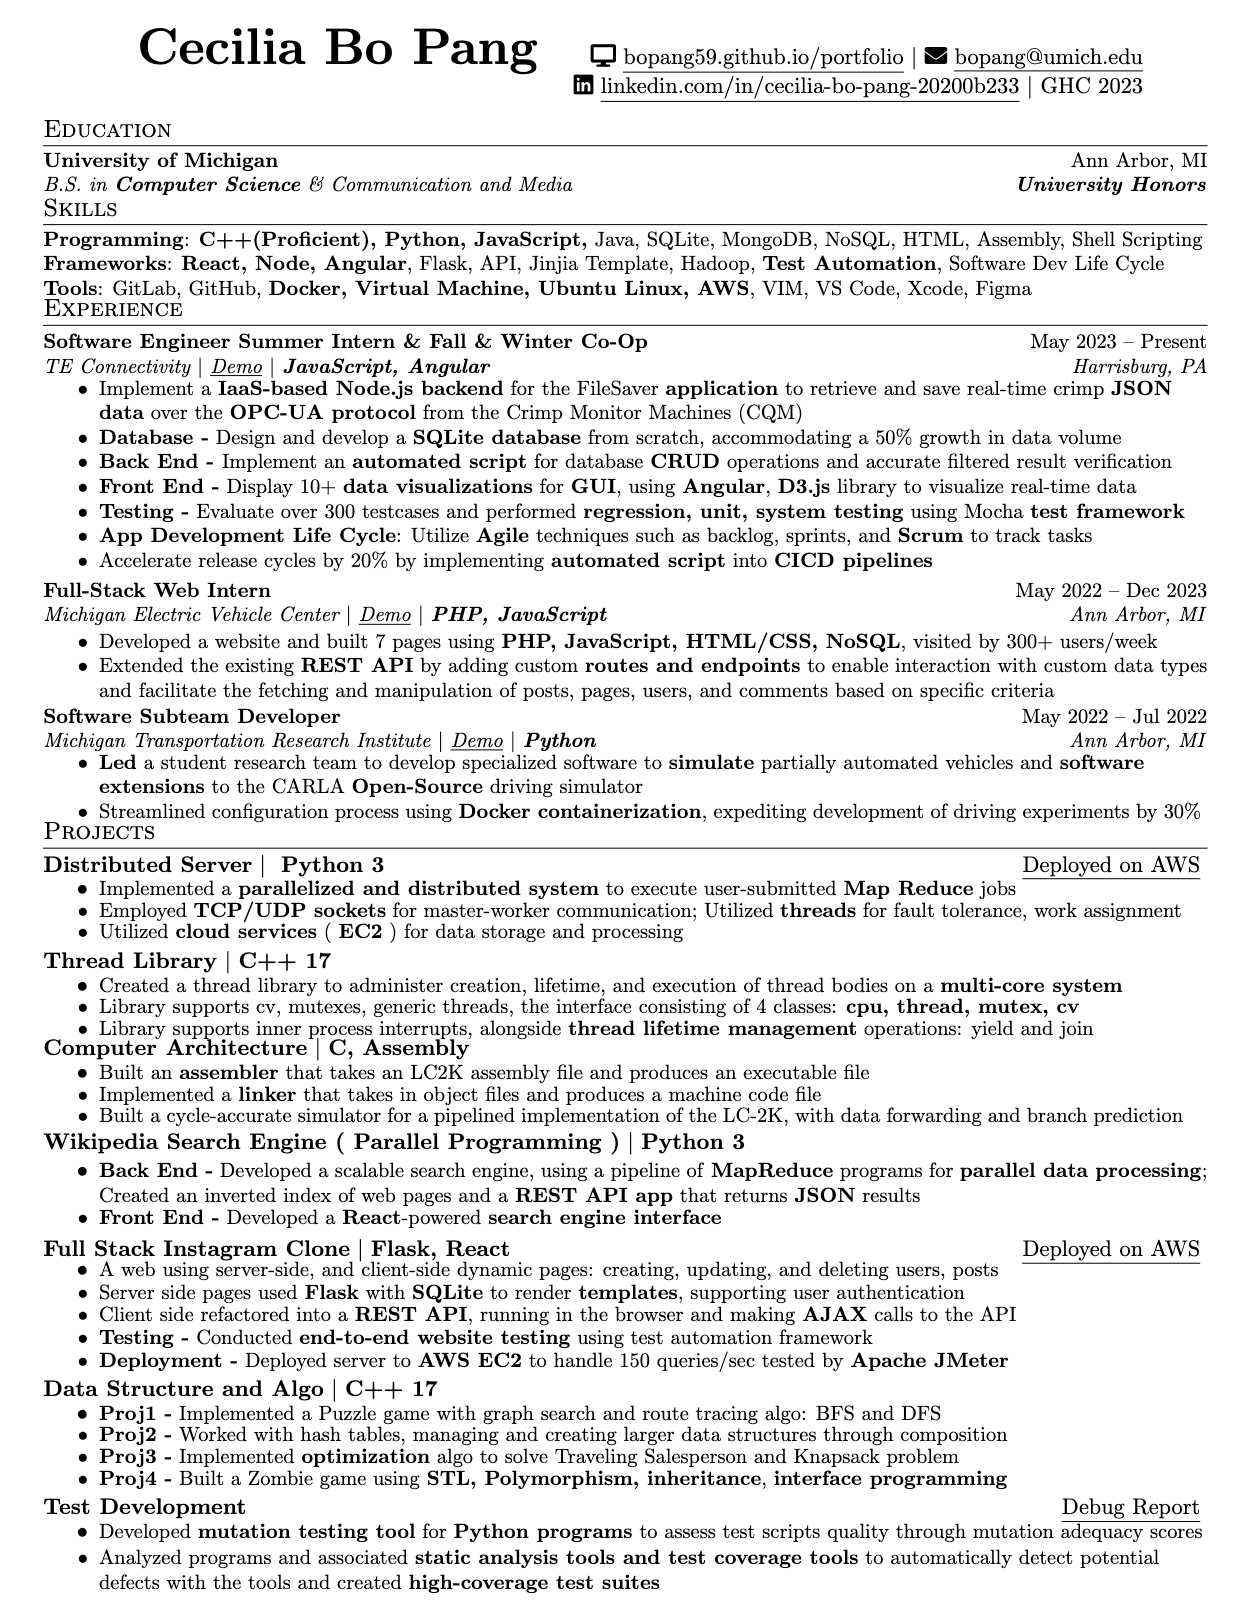
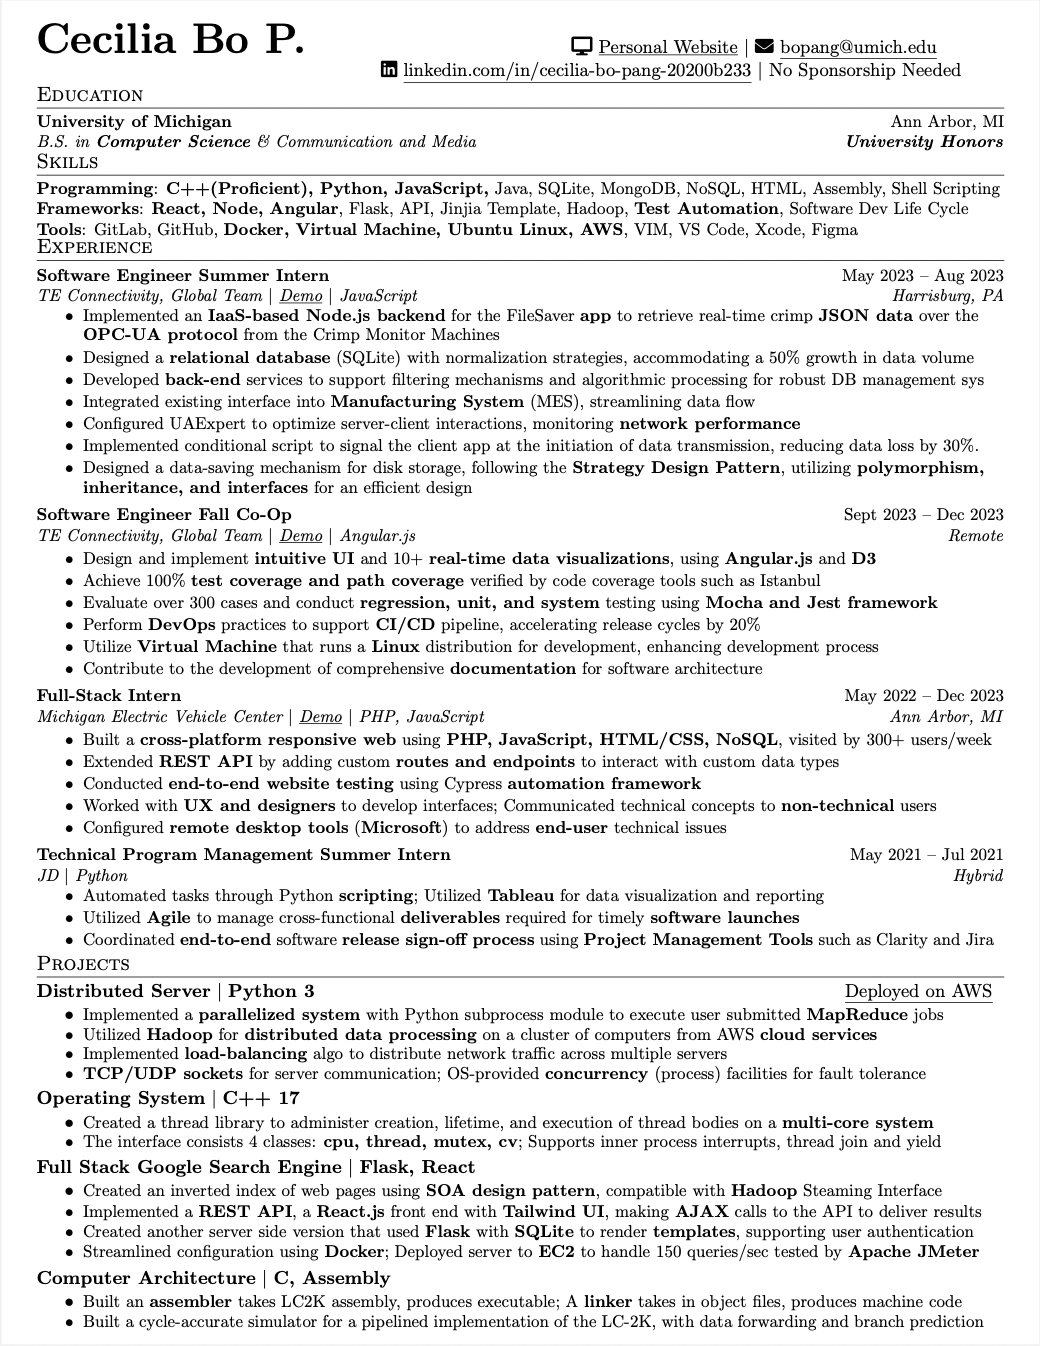
Updates

Changed region(s): [[0.0308, 0.0, 0.9846, 0.9985]]

diff --git a/content/Experience.md b/content/Experience.md
@@ -5,9 +5,13 @@
 - Badges:
   - Badge [blue]
 - List Items:
-  -  Implement a IaaS-based Node.js backend for the FileSaver       application to retrieve and save real-time crimp JSON data over the OPC-UA protocol from the Crimp Monitor Machines (CQM)
+  -  Implement a IaaS-based Node.js backend for the FileSaver application to retrieve and save real-time crimp JSON data over the OPC-UA protocol from the Crimp Monitor Machines (CQM)
   -  Database: Develop a databaseManager class with SQLite database, accommodating a 50% growth in data volume
   -  Back End: Implement an automated script for database CRUD operations and accurate filtered result verification
+  -  Integrate existing interface into Manufacturing System (MES), streamlining data flow
+  -  Configure UAExpert to optimize server-client interactions, monitoring network performance
+  -  Implement conditional script to signal the client app at the initiation of data transmission, reducing data loss by 30%.
+  -  Design a data-saving mechanism for disk storage, following the Strategy Design Pattern, utilizing polymorphism, inheritance, and interfaces for an efficient design
   - Front End: Display 10+ data visualizations for GUI, using Angular, D3.js library to visualize real-time data
   - Testing: Evaluate over 300 testcases and performed regression, unit, system testing using Mocha test framework
   - App Development Life Cycle: Utilize Agile techniques such as backlog, sprints, and Scrum to track tasks

diff --git a/content/Projects.md b/content/Projects.md
@@ -25,4 +25,14 @@ Implemented a parallelized and distributed system to execute user-submitted Map 
 - Buttons:
   - Threading, Python, TCP/UDP [https://example.com]
 
+
+## Full Stack Google Search Engine
+Created a segmented inverted index of web pages using a pipeline of MapReduce programs. For the index server, built a REST API app that returns search results in JSON format. For the search server, built a user interface that returns search results just like Google or Bing.
+- ![600x200](/portfolio/assets/g.png)
+- Tags: Research
+- Badges:
+  - Badge [blue]
+- Buttons:
+  - Python, Flask [https://example.com]
+
  
